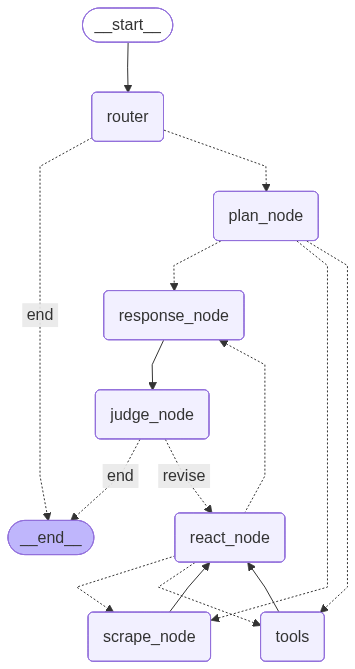
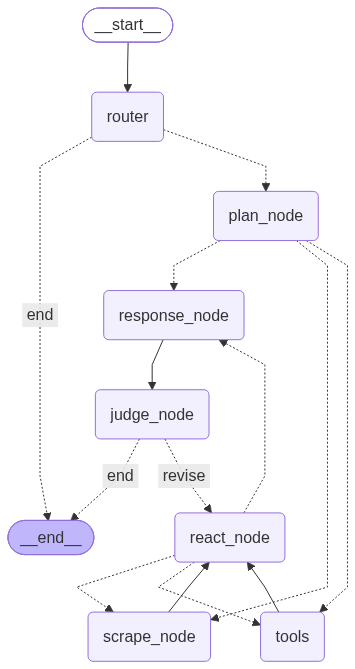
Demo_1

diff --git a/README.md b/README.md
@@ -1,12 +1,48 @@
 # BaboonTechnologiesProject
 
-This is an AI chatbot with equity research and company valuation assistant. You ask a question about a public US company and it obtains the necessary information to output an analysis in a chatbot interface similar to chatgpt. Look at TECHNICAL_OVERVIEW for more details.
+An equity research agent for US public companies. Ask about a company and it pulls filings from SEC EDGAR, runs valuation and ratio calculations deterministically through tools, and returns a sourced analysis—including an explicit account of what it could not compute and why. A judge node evaluates every response before release and can send it back for revision.
 
-This is just a prototype and is not ready for deployment.
+**Status:** working prototype. Deployable to Render and Vercel (see [DEPLOYMENT.md](DEPLOYMENT.md)), but not hardened for production and not intended to inform investment decisions.
 
-This chatbot is suposed to be model agnostic. To obtain more information about model compatibilities look at LLM_COMPATIBILTY.
+The agent is model-agnostic. See [LLM_COMPATIBILITY.md](LLM_COMPATIBILITY.md) for supported providers, model requirements, and configuration examples.
 
-DISCLAIMER: Consider that LLMs are stochastic, which implies a risk of hallucinations. Even if calculations are done deterministically through tools the LLM can still ignore the results of those tools.
+> **Disclaimer:** LLMs are stochastic, which creates a risk of hallucinations. Even though calculations are performed deterministically through tools, the LLM can still ignore or misinterpret their results.
+
+> **Setup at a glance:** the app can run with a single paid LLM API key by assigning every node to a compatible model from that provider. Reproducing the default OpenAI + Anthropic routing requires two paid keys. FRED and Supabase offer free access, and `EDGAR_USER_AGENT` is only the email address the SEC requires for request identification. Allow about 15 minutes for account and environment setup.
+
+## Agent Architecture
+
+The agent separates routing, data collection, synthesis, and quality control into specialized nodes. If the judge finds a material reasoning flaw, it sends the response back through the ReAct node so the agent can gather missing evidence and rewrite the answer before releasing it.
+
+```mermaid
+flowchart TD
+    START([Start]) --> ROUTER[Router]
+    ROUTER -->|Financial analysis| PLAN[Plan]
+    ROUTER -->|Out of scope / direct reply| END([End])
+    PLAN -->|Structured financial data| TOOLS[Tools]
+    PLAN -->|Qualitative or current context| SCRAPE[Scrape]
+    PLAN -->|Enough data| RESPONSE[Response]
+    TOOLS --> REACT[ReAct]
+    SCRAPE --> REACT
+    REACT -->|More structured data| TOOLS
+    REACT -->|More external research| SCRAPE
+    REACT -->|Enough data| RESPONSE
+    RESPONSE --> JUDGE[Judge]
+    JUDGE -->|Approved| END
+    JUDGE -->|Revise| REACT
+```
+
+### Model Routing
+
+Each node can use a different provider and model. The defaults put stronger models on high-leverage reasoning and evaluation steps while keeping external query generation cost-controlled.
+
+| Nodes | Default model | Architectural role |
+|---|---|---|
+| Router, Plan, ReAct, Judge | `gpt-4.1` | Structured routing, tool planning, completeness checks, and response evaluation |
+| Response | `claude-sonnet-4-6` | Final financial synthesis and grounded interpretation |
+| Scrape | `gpt-5.4-mini` | Cost-controlled query generation for external research |
+
+Every assignment is configurable through the corresponding `<NODE>_LLM_PROVIDER` and `<NODE>_LLM_MODEL` environment variables; see [LLM_COMPATIBILITY.md](LLM_COMPATIBILITY.md).
 
 ## Requirements
 
@@ -30,19 +66,20 @@ If you already have Git installed, you can replace all of the above with one com
 
 ## Setup Instructions
 
-# Backend
+### Backend
+
 1. Open backend and identify the .env.example file
 2. Create a .env file inside the backend folder where the .env.example file is located and copy the contents in the .env.example file into the new .env file
 3. Acquire your keys. Open the following links for each key:
 
    - `EDGAR_USER_AGENT` — This is not a key. Write your own email address here. The SEC requires it to let you download filings.
    - `FRED_API_KEY` — Go to [fredaccount.stlouisfed.org/apikeys](https://fredaccount.stlouisfed.org/apikeys), create a free account, and click "Request API Key". Copy the key it gives you.
-   - `OPENAI_API_KEY` — Go to [platform.openai.com/api-keys](https://platform.openai.com/api-keys), create an account, add a payment method, then click "Create new secret key". Copy it immediately — it is only shown once.
-   - `ANTHROPIC_API_KEY` — Go to [console.anthropic.com/settings/keys](https://console.anthropic.com/settings/keys), create an account, add a payment method, then click "Create Key". Copy it immediately — it is only shown once.
+   - `OPENAI_API_KEY` — Go to [platform.openai.com/api-keys](https://platform.openai.com/api-keys), create an account, add a payment method, then click "Create new secret key". Copy it immediately — it is only shown once. This key alone is sufficient if every node uses compatible OpenAI models.
+   - `ANTHROPIC_API_KEY` — Optional for a single-provider setup. It is required to reproduce the default routing, where Anthropic writes the final response. Go to [console.anthropic.com/settings/keys](https://console.anthropic.com/settings/keys), create an account, add a payment method, then click "Create Key". Copy it immediately — it is only shown once.
    - `SUPABASE_URL`, `SUPABASE_ANON_KEY`, `SUPABASE_SERVICE_ROLE_KEY` — Go to [supabase.com/dashboard](https://supabase.com/dashboard), create a free account and a new project. Wait for it to finish setting up, then open Project Settings → API. Copy the "Project URL", the `anon` key, and the `service_role` key.
 
 4. Fill in your keys in the .env file
-   - For quality performance and to minimize the risk of hallucinations, the following minimum model requirements are needed for each node. This is especially important for router node which acts as a safety node and and response node which performs the analysis:
+   - For quality performance and to minimize the risk of hallucinations, the following minimum model requirements are needed for each node. This is especially important for the router node, which acts as a safety node, and the response node, which performs the analysis:
       - ROUTER_LLM_MODEL= gpt-4.1 or similar
       - PLAN_LLM_MODEL= gpt-4.1 or similar
       - REACT_LLM_MODEL= gpt-4.1 or similar
@@ -50,7 +87,17 @@ If you already have Git installed, you can replace all of the above with one com
       - JUDGE_LLM_MODEL= gpt-4.1 or similar
       - SCRAPE_LLM_MODEL= gpt-5.4-mini or similar
 
-# Frontend
+   To run with only an OpenAI LLM key, keep the OpenAI defaults and route the response node to OpenAI in `.env`:
+
+   ```dotenv
+   RESPONSE_LLM_PROVIDER=openai
+   RESPONSE_LLM_MODEL=gpt-4.1
+   ```
+
+   In this setup, `ANTHROPIC_API_KEY` can be left empty. See [LLM_COMPATIBILITY.md](LLM_COMPATIBILITY.md) before choosing a different single provider because the routing nodes require structured output and tool calling.
+
+### Frontend
+
 1. Open frontend and identify the .env.example file
 2. Create a .env file inside the frontend folder where the .env.example file is located and copy the contents in the .env.example file into the new .env file
 3. Acquire your keys:
@@ -61,7 +108,8 @@ If you already have Git installed, you can replace all of the above with one com
 
 4. Fill in your keys in the .env file
 
-# Database
+### Database
+
 Your Supabase project starts empty. These steps create the tables the app needs to save accounts
 and chats. You only do this once.
 
@@ -72,35 +120,43 @@ and chats. You only do this once.
 
 ## How to Run the Code
 
-# Full Application
-1. Open a terminal (Windows/Linux:`CTRL ñ` - macOS:`Cmd ñ`)
+Text in `code format` is what you type into the terminal.
 
-Type commands in current terminal: `command to type in terminal`
+### Full Application
+
+1. Open a terminal (Windows/Linux:`CTRL ñ` - macOS:`Cmd ñ`)
 2. Open backend: `cd backend`
 3. Install dependencies: `uv sync`
-3. Run the backend: `uv run uvicorn backend.main:app --reload`
+4. Run the backend: `uv run uvicorn backend.main:app --reload`
 
-4. Open new terminal (Do not close current terminal)
+5. Open new terminal (Do not close current terminal)
+6. Open frontend: `cd frontend`
+7. Install: `npm install`
+8. Run App: `npm run dev`
 
-Type commands in current terminal:`command to type in terminal`
-5. Open frontend: `cd frontend`
-6. Install: `npm install`
-7. Run App: `npm run dev`
+9. The last command prints a web address in the terminal, usually `http://localhost:5173`. Open it in your browser.
 
-8. The last command prints a web address in the terminal, usually `http://localhost:5173`. Open it in your browser.
+### Backend for Debugging
 
-# Backend for Debugging (This runs a debug file named main.py located in backend/src/backend/agent/main.py. Outputs from running this file appear in the terminal)
+This runs `backend/src/backend/agent/main.py` and prints its output in the terminal.
+
 1. Open a terminal (Windows/Linux:`CTRL ñ` - macOS:`Cmd ñ`)
-
-Type commands in current terminal: `command to type in terminal`
 2. Open backend: `cd backend`
 3. Install dependencies: `uv sync`
 4. Run file: `uv run python src/backend/agent/main.py`
 
 ## Structure
 
-- `frontend/`: React web app
-- `backend/`: Python FastAPI backend and the AI agent, managed with `uv`
+- `frontend/`: React and Vite chat interface, authentication flows, and report export
+- `backend/src/backend/api/`: FastAPI routes, schemas, and controllers
+- `backend/src/backend/agent/nodes/`: Router, planner, tools, scraper, ReAct, response, and judge nodes
+- `backend/src/backend/agent/edges/`: Conditional routing between agent nodes
+- `backend/src/backend/agent/tools/`: Research and deterministic calculation tools
+- `backend/src/backend/agent/cache/`: Financial-data cache, catalog, and merge behavior
+- `backend/src/backend/agent/streaming/`: Agent progress and response streaming events
+- `backend/src/backend/adapters/`: SEC EDGAR, FRED, Yahoo Finance, and Damodaran integrations
+- `backend/src/backend/services/`: Financials, ratios, growth, comparables, and DCF services
+- `backend/supabase/migrations/`: Database schema for authentication, profiles, and chats
 
 ## Documentation
 
@@ -130,7 +186,7 @@ folder, next to the .env.example file, and named exactly `.env` — not `.env.tx
 **The web page opens but says the backend is offline**
 
 The backend terminal is not running. Go back to the first terminal and check it is still showing
-the backend. If you closed it, run steps 2 and 3 of Full Application again. Keep both terminals
+the backend. If you closed it, run steps 2 to 4 of Full Application again. Keep both terminals
 open the whole time you use the app.
 
 **You cannot create an account, or your chats do not save**
@@ -139,8 +195,8 @@ You skipped the Database section. Run the two .sql files in Supabase, then reloa
 
 **The chat answers for a while and then fails at the end**
 
-`ANTHROPIC_API_KEY` is missing, wrong, or the account has no credit. That key is what writes the
-final answer. Check it in the backend .env file, then restart the backend.
+With the default model routing, `ANTHROPIC_API_KEY` writes the final answer. Check that the key is
+valid and funded, or use the single-provider configuration above, then restart the backend.
 
 **The chat fails immediately with a key or authentication error**
 
